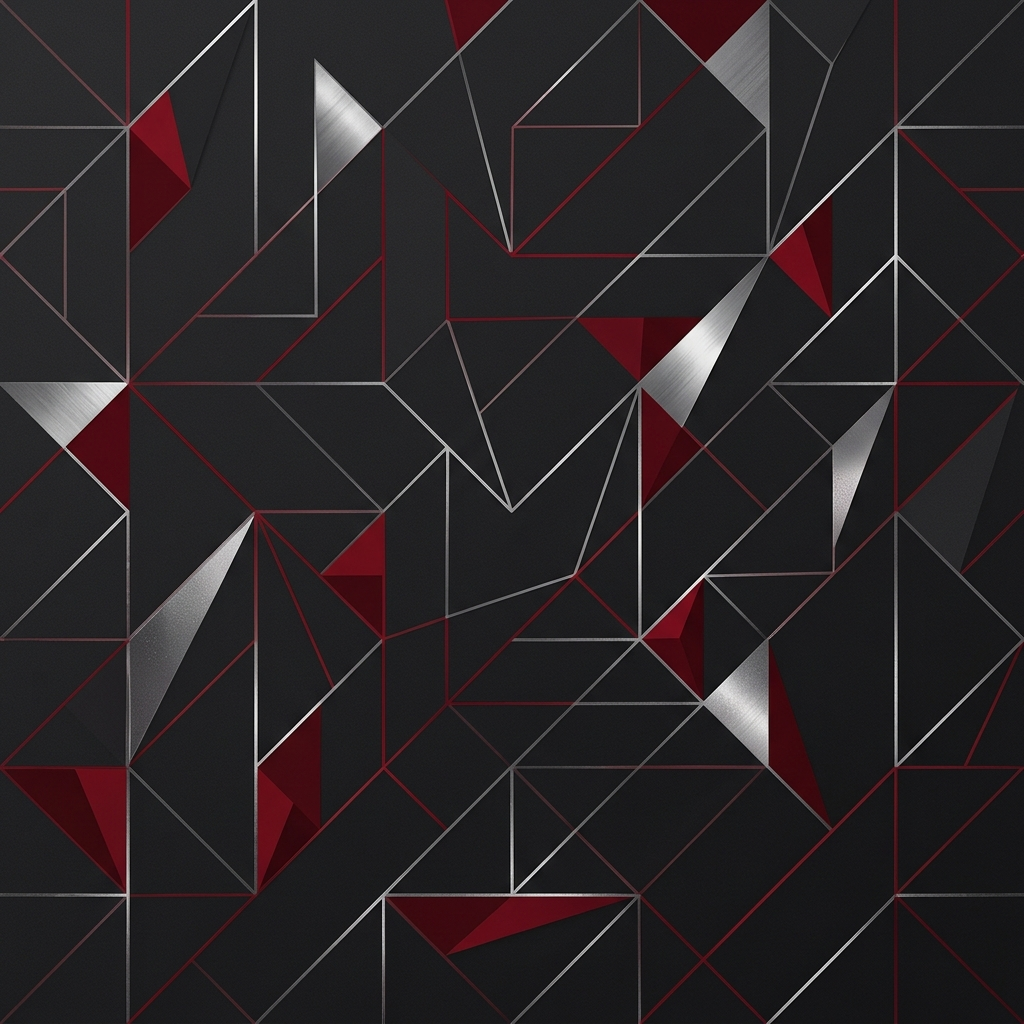
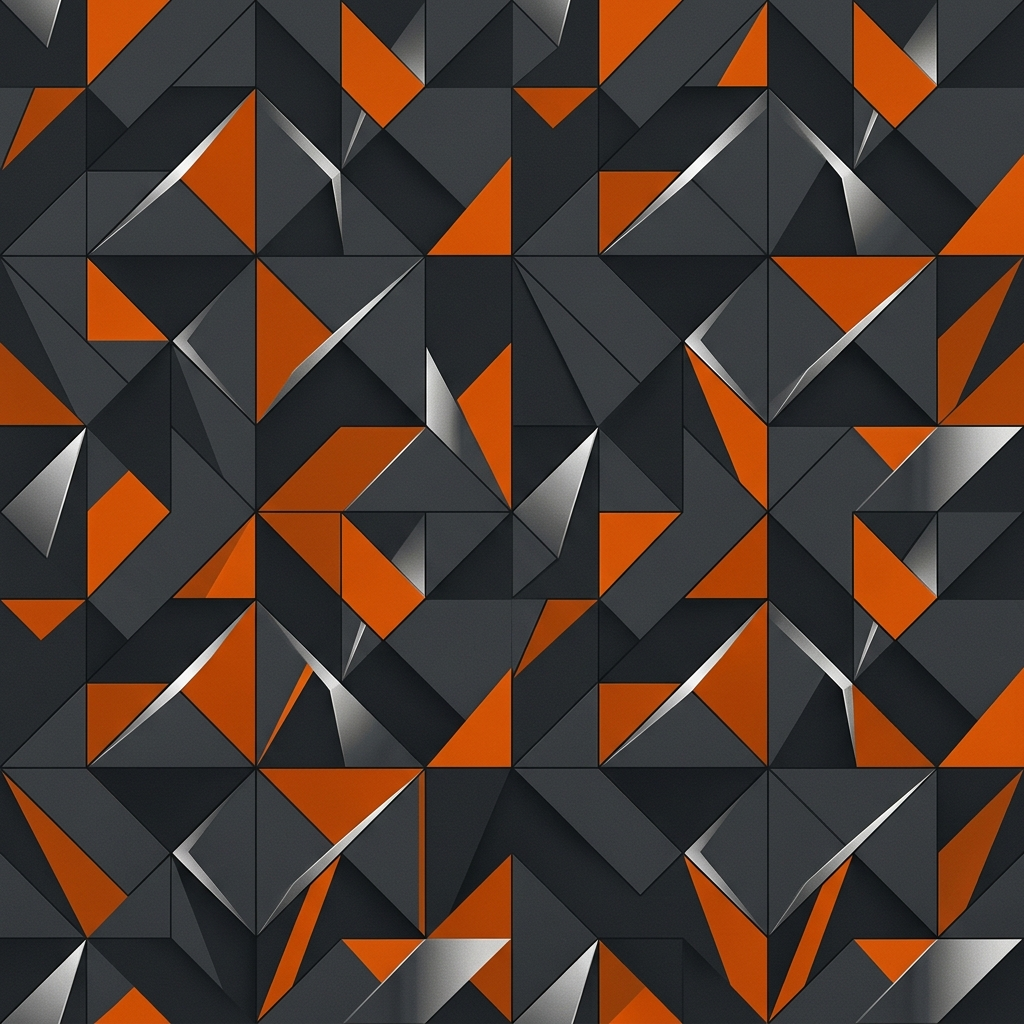
Rebrand to Eastern Tech Sports Network, orange geometric background

diff --git a/index.html b/index.html
@@ -1,99 +1,117 @@
 <!DOCTYPE html>
 <html lang="en">
+
 <head>
     <meta charset="UTF-8">
     <meta name="viewport" content="width=device-width, initial-scale=1.0">
-    <title>MAVERICK SPORTS NEWS | High School Glory</title>
+    <title>EASTERN TECH SPORTS NETWORK | High School Glory</title>
     <link rel="stylesheet" href="style.css">
     <link rel="preconnect" href="https://fonts.googleapis.com">
     <link rel="preconnect" href="https://fonts.gstatic.com" crossorigin>
-    <link href="https://fonts.googleapis.com/css2?family=Inter:ital,opsz,wght@0,14..32,100..900;1,14..32,100..900&family=Montserrat:ital,wght@0,100..900;1,100..900&display=swap" rel="stylesheet">
+    <link
+        href="https://fonts.googleapis.com/css2?family=Inter:ital,opsz,wght@0,14..32,100..900;1,14..32,100..900&family=Montserrat:ital,wght@0,100..900;1,100..900&display=swap"
+        rel="stylesheet">
 </head>
+
 <body>
 
-<header>
-    <div class="logo">
-        <h2 style="font-family: 'Montserrat', sans-serif; font-weight: 900; letter-spacing: -1px;">MAVERICK<span style="color: var(--primary-color);">SPORTS</span></h2>
+    <header>
+        <div class="logo">
+            <h2 style="font-family: 'Montserrat', sans-serif; font-weight: 900; letter-spacing: -1px;">Eastern Tech<span
+                    style="color: var(--primary-color);">Sports Network</span></h2>
+        </div>
+        <nav>
+            <ul>
+                <li><a href="#hero">Home</a></li>
+                <li><a href="#news">Latest News</a></li>
+                <li><a href="#scores">Scores</a></li>
+                <li><a href="#athletes">Athletes</a></li>
+            </ul>
+        </nav>
+    </header>
+
+    <section id="hero">
+        <h1>Glory Defined.</h1>
+        <p>Where every game is a battle and every athlete is a legend. Welcome to the home of Eastern Tech Sports.</p>
+        <a href="#news" class="btn-primary">EXPLORE THE LATEST</a>
+    </section>
+
+    <div class="ticker-container" id="scores">
+        <div class="ticker-content" id="ticker-content">
+            <span class="ticker-item">VARSITY FOOTBALL: <span>EASTERN TECH 42</span> VS WILDCATS 14</span>
+            <span class="ticker-item">GIRLS VOLLEYBALL: <span>EASTERN TECH 3</span> VS EAGLES 0 (FINAL)</span>
+            <span class="ticker-item">BOYS BASKETBALL: <span>EASTERN TECH 78</span> VS RAIDERS 75 (OT)</span>
+            <span class="ticker-item">VARSITY SOCCER: <span>EASTERN TECH 2</span> VS PANTHERS 1</span>
+            <span class="ticker-item">UPCOMING: CROSS COUNTRY INVITATIONAL - THIS SATURDAY @ 9AM</span>
+        </div>
     </div>
-    <nav>
-        <ul>
-            <li><a href="#hero">Home</a></li>
-            <li><a href="#news">Latest News</a></li>
-            <li><a href="#scores">Scores</a></li>
-            <li><a href="#athletes">Athletes</a></li>
-        </ul>
-    </nav>
-</header>
 
-<section id="hero">
-    <h1>Glory Defined.</h1>
-    <p>Where every game is a battle and every athlete is a legend. Welcome to the home of Maverick High School Sports.</p>
-    <a href="#news" class="btn-primary">EXPLORE THE LATEST</a>
-</section>
+    <main id="news">
+        <h2 class="section-title">THE LATEST ET HEADLINES</h2>
 
-<div class="ticker-container" id="scores">
-    <div class="ticker-content" id="ticker-content">
-        <span class="ticker-item">VARSITY FOOTBALL: <span>MAVERICKS 42</span> VS WILDCATS 14</span>
-        <span class="ticker-item">GIRLS VOLLEYBALL: <span>MAVERICKS 3</span> VS EAGLES 0 (FINAL)</span>
-        <span class="ticker-item">BOYS BASKETBALL: <span>MAVERICKS 78</span> VS RAIDERS 75 (OT)</span>
-        <span class="ticker-item">VARSITY SOCCER: <span>MAVERICKS 2</span> VS PANTHERS 1</span>
-        <span class="ticker-item">UPCOMING: CROSS COUNTRY INVITATIONAL - THIS SATURDAY @ 9AM</span>
-    </div>
-</div>
+        <div class="news-grid">
+            <article class="news-card">
+                <h3>Friday Night Lights: Eastern Tech Crushes Rival Wildcats</h3>
+                <p>The Varsity Football team dominated the field tonight with a stunning 42-14 victory, led by Junior QB
+                    Jackson "The Cannon" Smith.</p>
+                <br>
+                <a href="#" style="color: var(--primary-color); text-decoration: none; font-weight: 700;">READ FULL
+                    STORY →</a>
+            </article>
 
-<main id="news">
-    <h2 class="section-title">THE LATEST HEADLINES</h2>
-    
-    <div class="news-grid">
-        <article class="news-card">
-            <h3>Friday Night Lights: Mavericks Crush Rival Wildcats</h3>
-            <p>The Varsity Football team dominated the field tonight with a stunning 42-14 victory, led by Junior QB Jackson "The Cannon" Smith.</p>
-            <br>
-            <a href="#" style="color: var(--primary-color); text-decoration: none; font-weight: 700;">READ FULL STORY →</a>
-        </article>
+            <article class="news-card">
+                <h3>Buzzer Beater: Eastern Tech Wins Thriller in OT</h3>
+                <p>The game came down to the final seconds as the Boys Basketball team secured a hard-fought victory
+                    against the Raiders.</p>
+                <br>
+                <a href="#" style="color: var(--primary-color); text-decoration: none; font-weight: 700;">READ FULL
+                    STORY →</a>
+            </article>
 
-        <article class="news-card">
-            <h3>Buzzer Beater: Mavericks Win Thriller in OT</h3>
-            <p>The game came down to the final seconds as the Boys Basketball team secured a hard-fought victory against the Raiders.</p>
-            <br>
-            <a href="#" style="color: var(--primary-color); text-decoration: none; font-weight: 700;">READ FULL STORY →</a>
-        </article>
+            <article class="news-card">
+                <h3>Record Breaking Meet for Track & Field</h3>
+                <p>Three new school records were set during the Regional Invitational this Tuesday at the Eastern Tech
+                    Sports Complex.</p>
+                <br>
+                <a href="#" style="color: var(--primary-color); text-decoration: none; font-weight: 700;">READ FULL
+                    STORY →</a>
+            </article>
 
-        <article class="news-card">
-            <h3>Record Breaking Meet for Track & Field</h3>
-            <p>Three new school records were set during the Regional Invitational this Tuesday at the Maverick Sports Complex.</p>
-            <br>
-            <a href="#" style="color: var(--primary-color); text-decoration: none; font-weight: 700;">READ FULL STORY →</a>
-        </article>
+            <article class="news-card">
+                <h3>Volleyball Secures Spot in Championship</h3>
+                <p>A flawless performance from the Girls Volleyball team tonight ensures their place in the District
+                    Championship game.</p>
+                <br>
+                <a href="#" style="color: var(--primary-color); text-decoration: none; font-weight: 700;">READ FULL
+                    STORY →</a>
+            </article>
 
-        <article class="news-card">
-            <h3>Volleyball Secures Spot in Championship</h3>
-            <p>A flawless performance from the Girls Volleyball team tonight ensures their place in the District Championship game.</p>
-            <br>
-            <a href="#" style="color: var(--primary-color); text-decoration: none; font-weight: 700;">READ FULL STORY →</a>
-        </article>
+            <article class="news-card">
+                <h3>Meet Our Featured Athlete: Sarah 'Swift' Johnson</h3>
+                <p>Senior forward Sarah Johnson talks about her journey to the varsity soccer team and her hopes for the
+                    season.</p>
+                <br>
+                <a href="#" style="color: var(--primary-color); text-decoration: none; font-weight: 700;">READ FULL
+                    STORY →</a>
+            </article>
 
-        <article class="news-card">
-            <h3>Meet Our Featured Athlete: Sarah 'Swift' Johnson</h3>
-            <p>Senior forward Sarah Johnson talks about her journey to the varsity soccer team and her hopes for the season.</p>
-            <br>
-            <a href="#" style="color: var(--primary-color); text-decoration: none; font-weight: 700;">READ FULL STORY →</a>
-        </article>
+            <article class="news-card">
+                <h3>Boosters Update: New Training Facility Approved</h3>
+                <p>The Eastern Tech Sports Boosters have officially announced the plans for the state-of-the-art training
+                    facility coming next fall.</p>
+                <br>
+                <a href="#" style="color: var(--primary-color); text-decoration: none; font-weight: 700;">READ FULL
+                    STORY →</a>
+            </article>
+        </div>
+    </main>
 
-        <article class="news-card">
-            <h3>Boosters Update: New Training Facility Approved</h3>
-            <p>The Maverick Sports Boosters have officially announced the plans for the state-of-the-art training facility coming next fall.</p>
-            <br>
-            <a href="#" style="color: var(--primary-color); text-decoration: none; font-weight: 700;">READ FULL STORY →</a>
-        </article>
-    </div>
-</main>
+    <footer>
+        <p>&copy; 2026 EASTERN TECH SPORTS NETWORK. ALL RIGHTS RESERVED.</p>
+        <p style="margin-top: 1rem; opacity: 0.7;">Powered by the Geometric Glory of Eastern Tech Media.</p>
+    </footer>
 
-<footer>
-    <p>&copy; 2026 MAVERICK HIGH SCHOOL SPORTS CLUB. ALL RIGHTS RESERVED.</p>
-    <p style="margin-top: 1rem; opacity: 0.7;">Powered by the Geometric Glory of Maverick Media.</p>
-</footer>
-
-<script src="script.js"></script>
+    <script src="script.js"></script>
 </body>
+
 </html>
